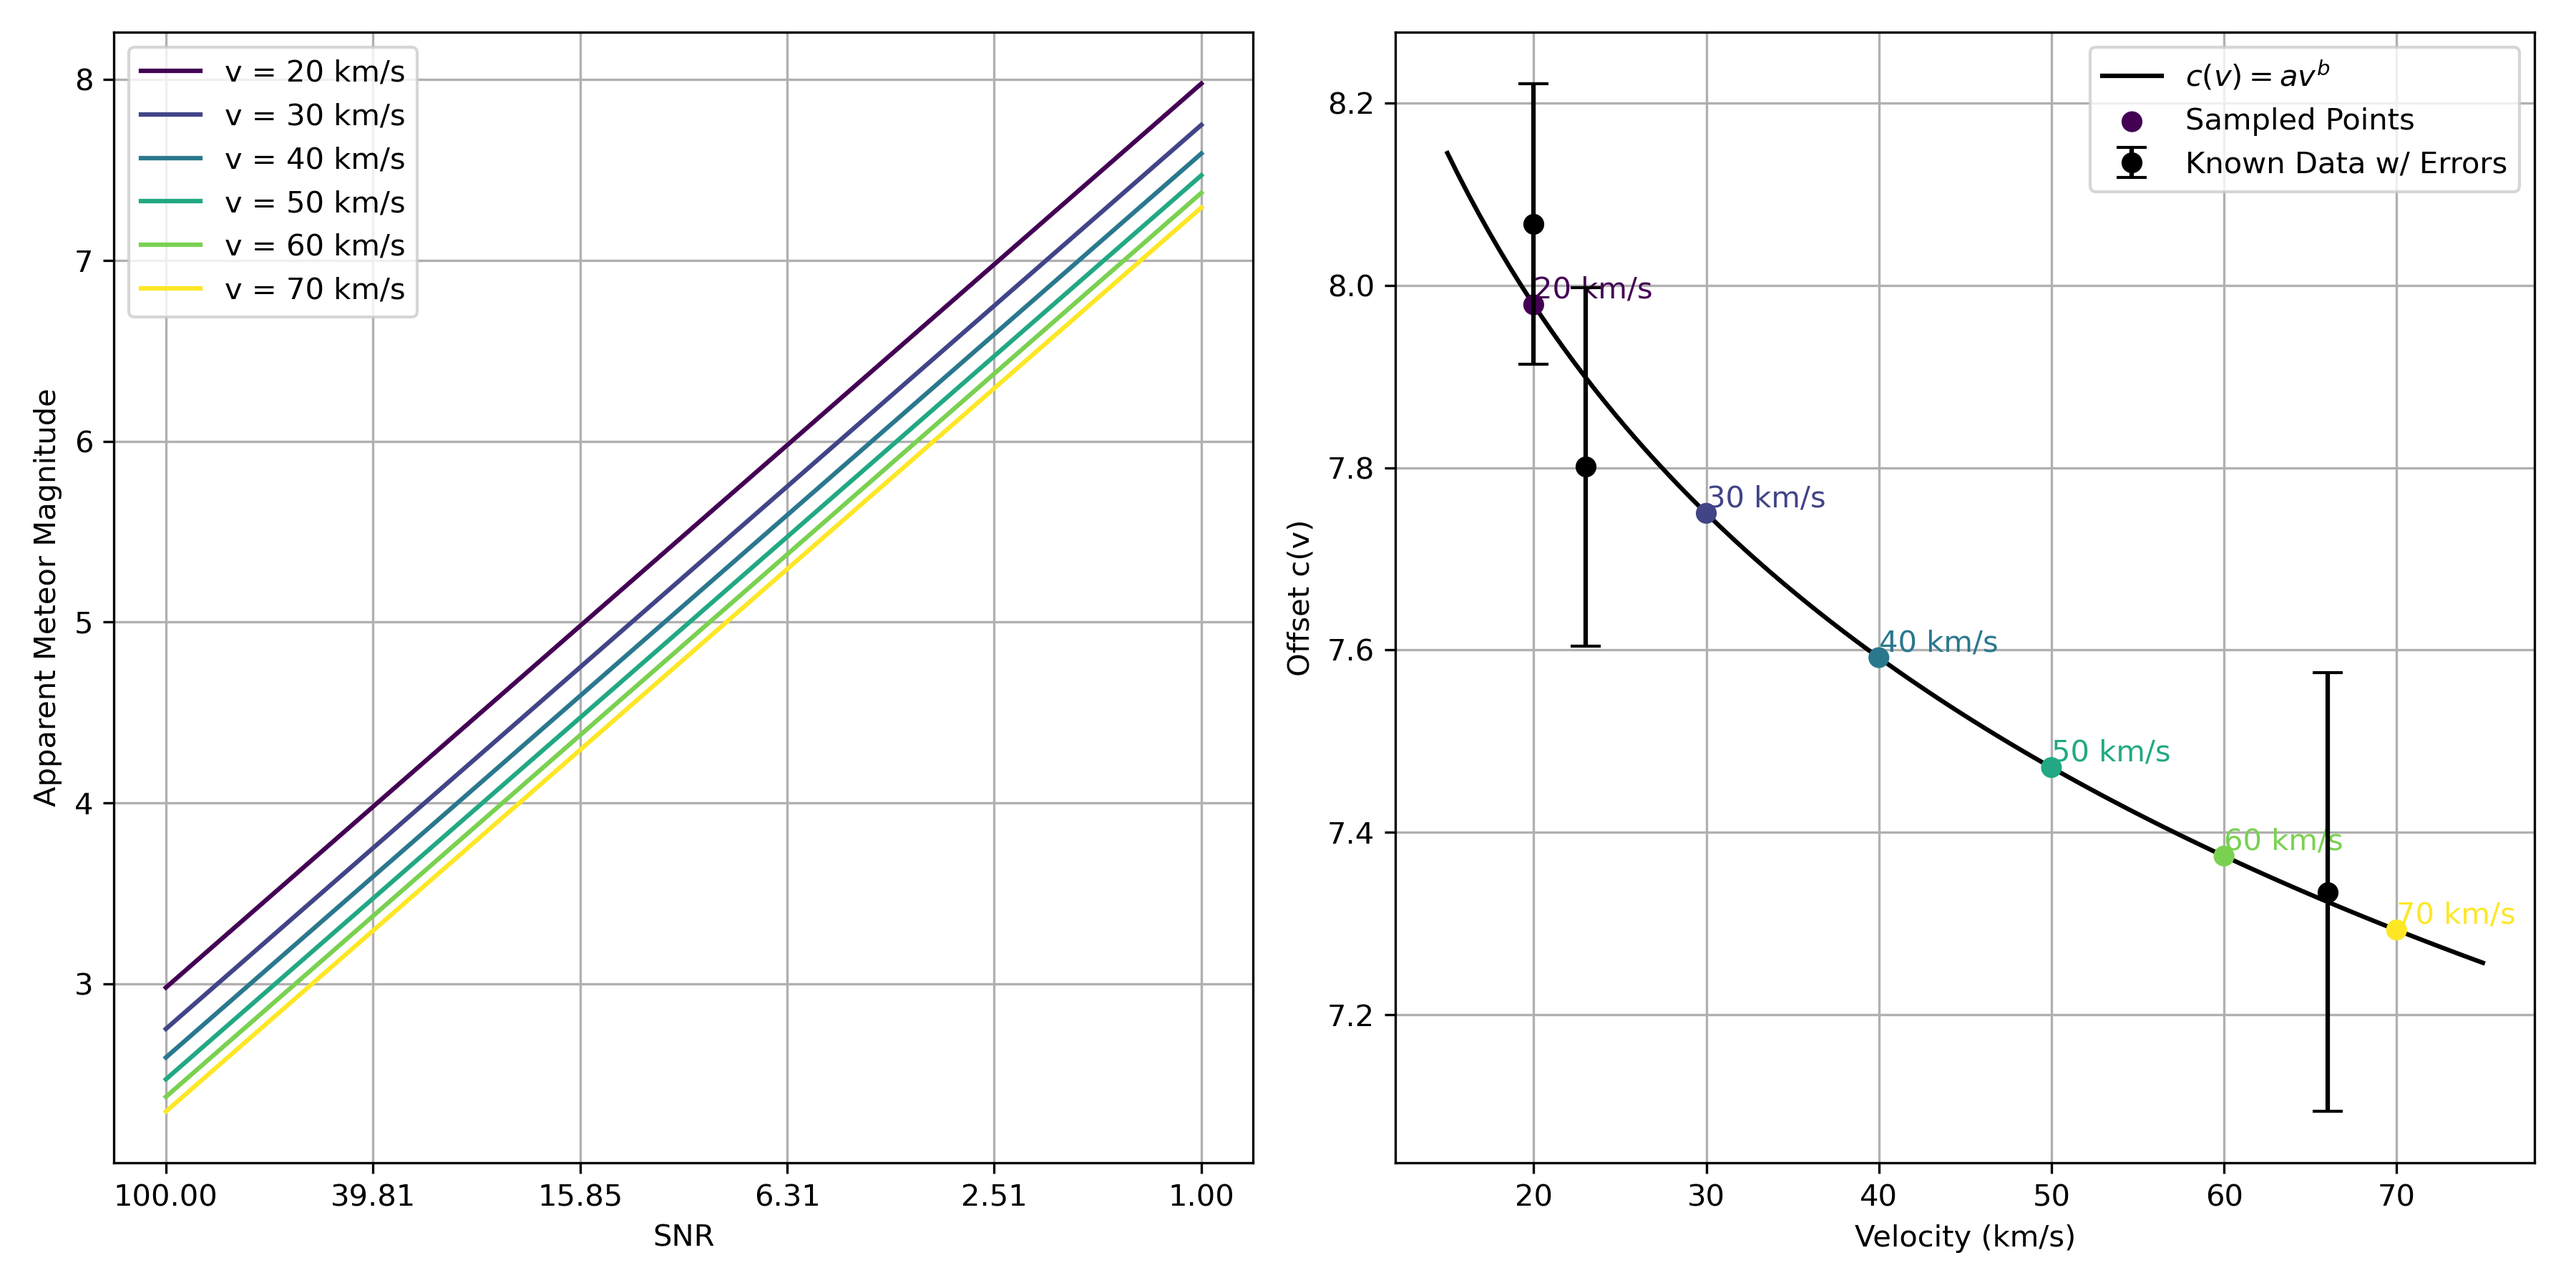
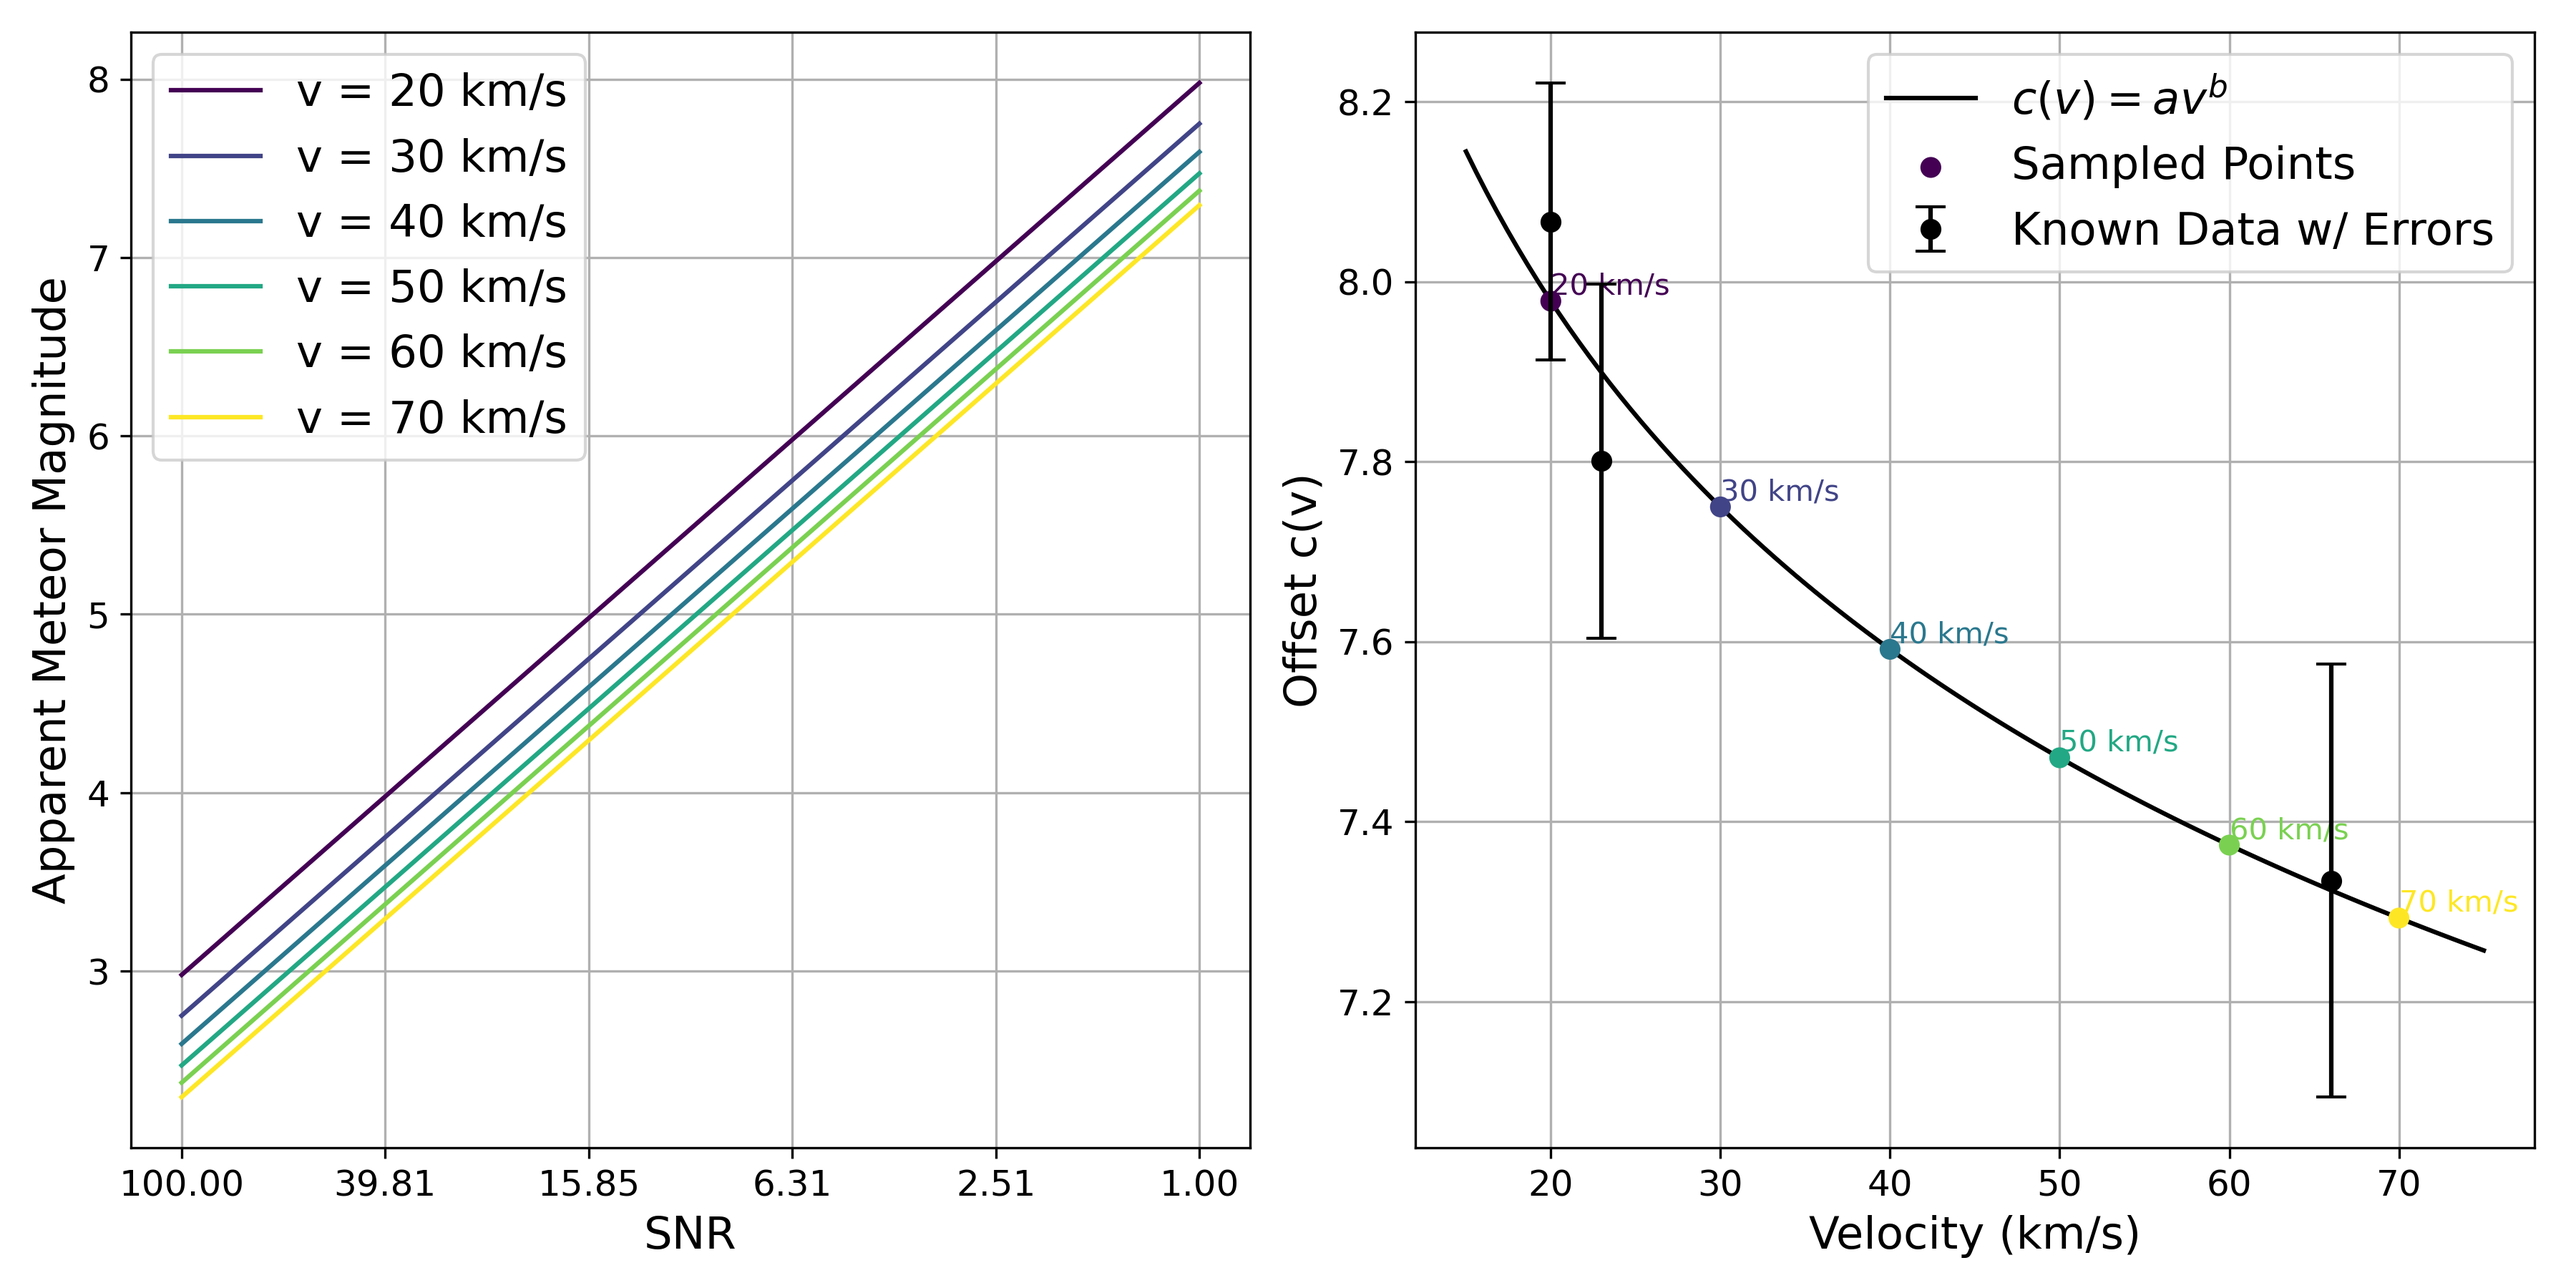
generateFragments with iron case

diff --git a/Code/DynNestSampl/iron_model_tests/generateFragments_with_iron_case.py b/Code/DynNestSampl/iron_model_tests/generateFragments_with_iron_case.py
@@ -1,0 +1,178 @@
+import math
+import copy
+import numpy as np
+from DynNestSampl.iron_model_tests.ironPaper_particles import getErosionCoeff
+
+
+def generateFragments(const, frag_parent, eroded_mass, mass_index, mass_min, mass_max, keep_eroding=False,
+    disruption=False, iron_model=False):
+    """ Given the parent fragment, fragment it into daughter fragments using a power law mass distribution.
+
+    Masses are binned and one daughter fragment may represent several fragments/grains, which is specified 
+    with the n_grains atribute.
+
+    Arguments:
+        const: [object] Constants instance.
+        frag_parent: [object] Fragment instance, the parent fragment.
+        eroded_mass: [float] Mass to be distributed into daughter fragments. 
+        mass_index: [float] Mass index to use to distribute the mass.
+        mass_min: [float] Minimum mass bin (kg).
+        mass_max: [float] Maximum mass bin (kg).
+
+    Keyword arguments:
+        keep_eroding: [bool] Whether the daughter fragments should keep eroding.
+        disruption: [bool] Indicates that the disruption occured, uses a separate erosion parameter for
+            disrupted daughter fragments.
+        iron_model: [bool] Whether to use the iron model for mass distribution.
+
+    Return:
+        frag_children: [list] A list of Fragment instances - these are the generated daughter fragments.
+
+    """
+
+    # Compute the mass bin coefficient
+    mass_bin_coeff = 10**(-1.0/const.erosion_bins_per_10mass)
+
+    # Compute the number of mass bins
+    k = int(1 + math.log10(mass_min/mass_max)/math.log10(mass_bin_coeff))
+
+    if iron_model:
+        # Compute the number of needed bins for the gamma distribution
+        mass_bins = np.array([mass_max * (mass_bin_coeff ** i) for i in range(k)])
+        bin_widths = mass_bins * (1 - mass_bin_coeff)        
+
+        # Compute the expected value from the mass power-law distribution 
+        log_range = math.log(mass_max / mass_min)
+        if mass_index == 1.0:
+            # For mass_index = 1, the mean is the arithmetic mean
+            m_mean = (mass_max - mass_min) / log_range
+        elif mass_index == 2.0:
+            # For mass_index = 2, the mean is the harmonic mean
+            m_mean = log_range / (1.0 / mass_min - 1.0 / mass_max)
+        else:
+            # For other mass indices, compute the mean using the formula, computing each step separatelly to save time
+            a = 2 - mass_index
+            b = 1 - mass_index
+            m_max_a = mass_max**a
+            m_min_a = mass_min**a
+            m_max_b = mass_max**b
+            m_min_b = mass_min**b
+
+            num = (m_max_a - m_min_a) / a
+            den = (m_max_b - m_min_b) / b
+            m_mean = num / den
+
+        # Convert mean mass to mean diameter
+        D_mean = (6 * m_mean / (math.pi * const.rho_grain))**(1/3)
+        # print(f"Mean mass (kg): {m_mean:.4g}")
+        # print(f"Mean diameter (µm): { D_mean * 1e6:.4g}")
+
+        # The gamma function value for 5/3, used in the gamma distribution
+        gamma_5_3 = 0.90274529295093375313996375552960671484470367431640625  # gamma(5/3)
+        s = (D_mean * gamma_5_3) ** 3
+
+        # covert the diameter to mass
+        Diameter = (6 * mass_bins / (math.pi * const.rho_grain)) ** (1 / 3)
+
+        # Compute the number of grains in the bin for diameter distribution
+        n_D = (3 * Diameter **2 / s) * np.exp(-Diameter **3 / s)
+
+        # Compute the derivative of the diameter with respect to mass
+        dD_dm = (1/3) * (6 / (math.pi * const.rho_grain))**(1/3) * mass_bins**(-2/3)
+
+        # Compute the number of grains in the bin for unit mass distribution
+        n_m_raw = n_D * np.abs(dD_dm)
+
+        # Compute the mass per bin from the unit mass distribution
+        mass_per_bin_raw = n_m_raw * bin_widths * mass_bins
+
+        # Scale the number of grains in the bin to match the eroded mass
+        scaling = eroded_mass / np.sum(mass_per_bin_raw)
+
+        # Compute the mass of all grains in the bin (per grain)
+        n_m_scaled = n_m_raw * scaling
+
+    else:
+        # Compute the number of the largest grains
+        if mass_index == 2:
+            n0 = eroded_mass/(mass_max*k)
+        else:
+            n0 = abs((eroded_mass/mass_max)*(1 - mass_bin_coeff**(2 - mass_index))/(1 - mass_bin_coeff**((2 - mass_index)*k)))
+
+
+    # Go though every mass bin
+    frag_children = []
+    leftover_mass = 0
+    for i in range(0, k):
+
+        if iron_model:
+            # extract the mass of the grain in the bin
+            m_grain = mass_bins[i]
+
+            # Compute the number of grains in the bin
+            n_grains_bin = n_m_scaled[i] * bin_widths[i] + leftover_mass/m_grain
+            n_grains_bin_round = int(math.floor(n_grains_bin)) # int(expected_count)
+
+            # Compute the leftover mass
+            leftover_mass = (n_grains_bin - n_grains_bin_round)*m_grain
+
+        else:
+            # Compute the mass of all grains in the bin (per grain)
+            m_grain = mass_max*mass_bin_coeff**i
+
+            # Compute the number of grains in the bin
+            n_grains_bin = n0*(mass_max/m_grain)**(mass_index - 1) + leftover_mass/m_grain
+            n_grains_bin_round = int(math.floor(n_grains_bin))
+
+            # Compute the leftover mass
+            leftover_mass = (n_grains_bin - n_grains_bin_round)*m_grain
+
+        # If there are any grains to erode, erode them
+        if n_grains_bin_round > 0:
+
+            # Init the new fragment with params of the parent
+            frag_child = copy.deepcopy(frag_parent)
+
+            # Assign the number of grains this fragment stands for (make sure to preserve the previous value
+            #   if erosion is done for more fragments)
+            frag_child.n_grains *= n_grains_bin_round
+
+            # Assign the grain mass
+            frag_child.m = m_grain
+            frag_child.m_init = m_grain
+
+            frag_child.active = True
+            frag_child.main = False
+            frag_child.disruption_enabled = False
+
+            # Indicate that the fragment is a grain
+            if (not keep_eroding) and (not disruption):
+                frag_child.grain = True
+
+            # Set the erosion coefficient value (disable in grain, only larger fragments)
+            if keep_eroding:
+                frag_child.erosion_enabled = True
+
+                # If the disruption occured, use a different erosion coefficient for daguhter fragments
+                if disruption:
+                    frag_child.erosion_coeff = const.disruption_erosion_coeff
+                else:
+                    frag_child.erosion_coeff = getErosionCoeff(const, frag_parent.h)
+
+            else:
+                # Compute the grain density and shape-density coeff
+                frag_child.rho = const.rho_grain
+                frag_child.updateShapeDensityCoeff()
+
+                frag_child.erosion_enabled = False
+                frag_child.erosion_coeff = 0
+
+
+            # Give every fragment a unique ID
+            frag_child.id = const.total_fragments
+            const.total_fragments += 1
+
+            frag_children.append(frag_child)
+
+
+    return frag_children, const

diff --git a/Code/DynNestSampl/iron_model_tests/ironPaper_particles_compare.py b/Code/DynNestSampl/iron_model_tests/ironPaper_particles_compare.py
@@ -14,6 +14,7 @@ rho = 7000  # kg/m^3 (example density for rock/iron)
 gamma_5_3 = 0.90274529295093375313996375552960671484470367431640625 # gamma(5/3)
 m_dr = mass_min + (mass_max - mass_min) * mass_index
 
+print(f"total eroded mass: {eroded_mass} kg")
 for mass_index in [1, 1.25, 1.5, 1.75, 2, 2.25, 2.5, 2.75, 3]:
     # folder where code is running
     array_time_power = []
@@ -101,8 +102,8 @@ for mass_index in [1, 1.25, 1.5, 1.75, 2, 2.25, 2.5, 2.75, 3]:
         # print(f"Mean mass (kg): {m_mean:.4e}")
         # print(f"Mean diameter (µm): { D_mean * 1e6:.4f}\n")
 
-        D = (6 * mass_bins / (math.pi * rho)) ** (1 / 3)
-        n_D = (3 * D**2 / s) * np.exp(-D**3 / s)
+        Diameter = (6 * mass_bins / (math.pi * rho)) ** (1 / 3)
+        n_D = (3 * Diameter **2 / s) * np.exp(-Diameter **3 / s)
         dD_dm = (1/3) * (6 / (math.pi * rho))**(1/3) * mass_bins**(-2/3)
         n_m_raw = n_D * np.abs(dD_dm)
 
@@ -129,8 +130,27 @@ for mass_index in [1, 1.25, 1.5, 1.75, 2, 2.25, 2.5, 2.75, 3]:
         ##########################################################################################################################
 
     # Print the times results
-    print(f"mass index: {mass_index} for {len(array_time_power)} total number of iterations")
-    print(f"   Average time for power law distribution: {np.mean(array_time_power):.6e} seconds")
-    print(f"   Average time for gamma distribution: {np.mean(array_time_gamma):.6e} seconds")
-    print(f"   Total time for power law distribution: {np.sum(array_time_power):.6e} seconds")
-    print(f"   Total time for gamma distribution: {np.sum(array_time_gamma):.6e} seconds")
+    print(f"mass index: {mass_index}")
+    # print(f"mass index: {mass_index} for {len(array_time_power)} total number of iterations")
+    # print(f"   Average time for power law distribution: {np.mean(array_time_power):.6e} seconds")
+    # print(f"   Average time for gamma distribution: {np.mean(array_time_gamma):.6e} seconds")
+    # print(f"   Total time for power law distribution: {np.sum(array_time_power):.6e} seconds")
+    # print(f"   Total time for gamma distribution: {np.sum(array_time_gamma):.6e} seconds")
+    # Final stats
+    total_fragments = sum(n for _, n in frag_children)
+    total_mass = sum(m * n for m, n in frag_children)
+    print(f"Power-law distribution:")
+    print(f"   Total fragments: {total_fragments}")
+    print(f"   Total mass (kg): {total_mass}")
+    print(f"   Difference in mass (kg): {abs(total_mass - eroded_mass):.4e}")
+    print(f"   Relative error: {abs(eroded_mass - total_mass)/eroded_mass:.4%}")
+    total_fragments = sum(n for _, n in frag_children_dr)
+    total_mass = sum(m * n for m, n in frag_children_dr)
+    print(f"Gamma-like distribution:")
+    print(f"   Total fragments: {total_fragments}")
+    print(f"   Total mass (kg): {total_mass}")
+    print(f"   Difference in mass (kg): {abs(total_mass - eroded_mass):.4e}")
+    print(f"   Relative error: {abs(eroded_mass - total_mass)/eroded_mass:.4%}\n")
+    print(f"Mean mass (kg): {m_mean:.4e}")
+    print(f"Mean diameter (µm): { D_mean * 1e6:.4f}\n")
+

diff --git a/Code/DynNestSampl/Validation_noise/noise/lum_noise_line/function_giv_vel.py b/Code/DynNestSampl/Validation_noise/noise/lum_noise_line/function_giv_vel.py
@@ -1,5 +1,6 @@
 import numpy as np
 import matplotlib.pyplot as plt
+import os
 
 # Given function to fit inverse power relation
 def fit_inverse_power():
@@ -44,10 +45,12 @@ for i, (v, c) in enumerate(zip(velocities_to_plot, offsets)):
     y_values = x_values + c
     axes[0].plot(x_values, y_values, label=f"v = {v} km/s", color=colors[i])
 
-axes[0].set_xlabel("SNR")
-axes[0].set_ylabel("Apparent Meteor Magnitude")
-axes[0].legend()
+axes[0].set_xlabel("SNR",  fontsize=15)
+axes[0].set_ylabel("Apparent Meteor Magnitude",  fontsize=15)
+axes[0].legend(fontsize=15)
 # axes[0].set_title("Apparent Magnitude vs. SNR")
+# increase the tick label size
+axes[0].tick_params(axis='both', which='major', labelsize=12)
 
 # Get current x-axis tick locations
 log_x_ticks = axes[0].get_xticks()
@@ -59,7 +62,7 @@ snr_ticks = 10**(log_x_ticks / (-2.5))
 axes[0].set_xticklabels([f'{snr:.2f}' for snr in snr_ticks])
 
 # Change the x-axis label to "SNR"
-axes[0].set_xlabel("SNR")  # Fix incorrect xlabel placement
+axes[0].set_xlabel("SNR",  fontsize=15)  # Fix incorrect xlabel placement
 # grid lines
 axes[0].grid(True)
 
@@ -79,14 +82,18 @@ axes[1].errorbar(known_velocities, known_offsets, yerr=known_errors, fmt='o', co
 for i, v in enumerate(velocities_to_plot):
     axes[1].text(v, offsets[i], f"{v} km/s", color=colors[i], fontsize=10, verticalalignment='bottom')
 
-axes[1].set_xlabel("Velocity (km/s)")
-axes[1].set_ylabel("Offset c(v)")
+axes[1].set_xlabel("Velocity (km/s)",  fontsize=15)
+axes[1].set_ylabel("Offset c(v)",  fontsize=15)
 # axes[1].set_title("Offset Function")
-axes[1].legend()
+axes[1].legend(fontsize=15)
+# increase the tick label size
+axes[1].tick_params(axis='both', which='major', labelsize=12)
 # grid lines
 axes[1].grid(True)
 
 plt.tight_layout()
 # save with dpi=300 for higher resolution
-plt.savefig("inverse_power_fit.png", dpi=300)
+output_path = r"C:\Users\maxiv\WMPG-repoMAX\Code\DynNestSampl\Validation_noise\noise\lum_noise_line"  # Define your output path here
+plt.savefig(output_path + os.sep + "inverse_power_fit.png", dpi=300)
+# plt.savefig("inverse_power_fit.png", dpi=300)
 

diff --git a/Code/DynNestSampl/iron_model_tests/ironPaper_particles.py b/Code/DynNestSampl/iron_model_tests/ironPaper_particles.py
@@ -51,10 +51,11 @@ for i in range(0, k):
     if n_grains_bin_round > 0:
         # plot the number of grains in each bin and the mass of the grains
         frag_children.append((m_grain, n_grains_bin_round))
-        # print(f"Mass bin {i}: m_grain = {m_grain:.2e} kg, n_grains_bin = {n_grains_bin:.2f}, n_grains_bin_round = {n_grains_bin_round}")
+        print(f"Mass bin {i}: m_grain = {m_grain:.2e} kg, n_grains_bin = {n_grains_bin:.2f}, n_grains_bin_round = {n_grains_bin_round}")
 
 # stop the timer
 end_time = time.time()
+print("Power-law distribution:")
 print(f"Time taken: {end_time - start_time:.4e} seconds")
 
 # Final stats
@@ -108,16 +109,18 @@ n_m_scaled = n_m_raw * scaling
 leftover_mass = 0
 frag_children_dr = []
 for i in range(k):
-    expected_count = n_m_scaled[i] * bin_widths[i] + leftover_mass / mass_bins[i]
+    m_grain = mass_bins[i]
+    expected_count = n_m_scaled[i] * bin_widths[i] + leftover_mass / m_grain
     n_grains_bin_round = int(math.floor(expected_count)) # int(expected_count)
-    leftover_mass = (expected_count - n_grains_bin_round) * mass_bins[i]
+    leftover_mass = (expected_count - n_grains_bin_round) * m_grain
     # Store results for fast gamma distribution
     if n_grains_bin_round > 0:
-        frag_children_dr.append((mass_bins[i], n_grains_bin_round))
-        # print(f"Mass bin {i}: m_grain = {mass_bins[i]:.2e} kg, n_grains_bin = {expected_count:.2f}, n_grains_bin_round = {int_counts[i]}")
+        frag_children_dr.append((m_grain, n_grains_bin_round))
+        print(f"Mass bin {i}: m_grain = {m_grain:.2e} kg, n_grains_bin = {expected_count:.2f}, n_grains_bin_round = {n_grains_bin_round}")
 
 # stop the timer
 end_time = time.time()
+print("Gamma-like distribution:")
 print(f"Time taken: {end_time - start_time:.4e} seconds")
 
 # Final stats
